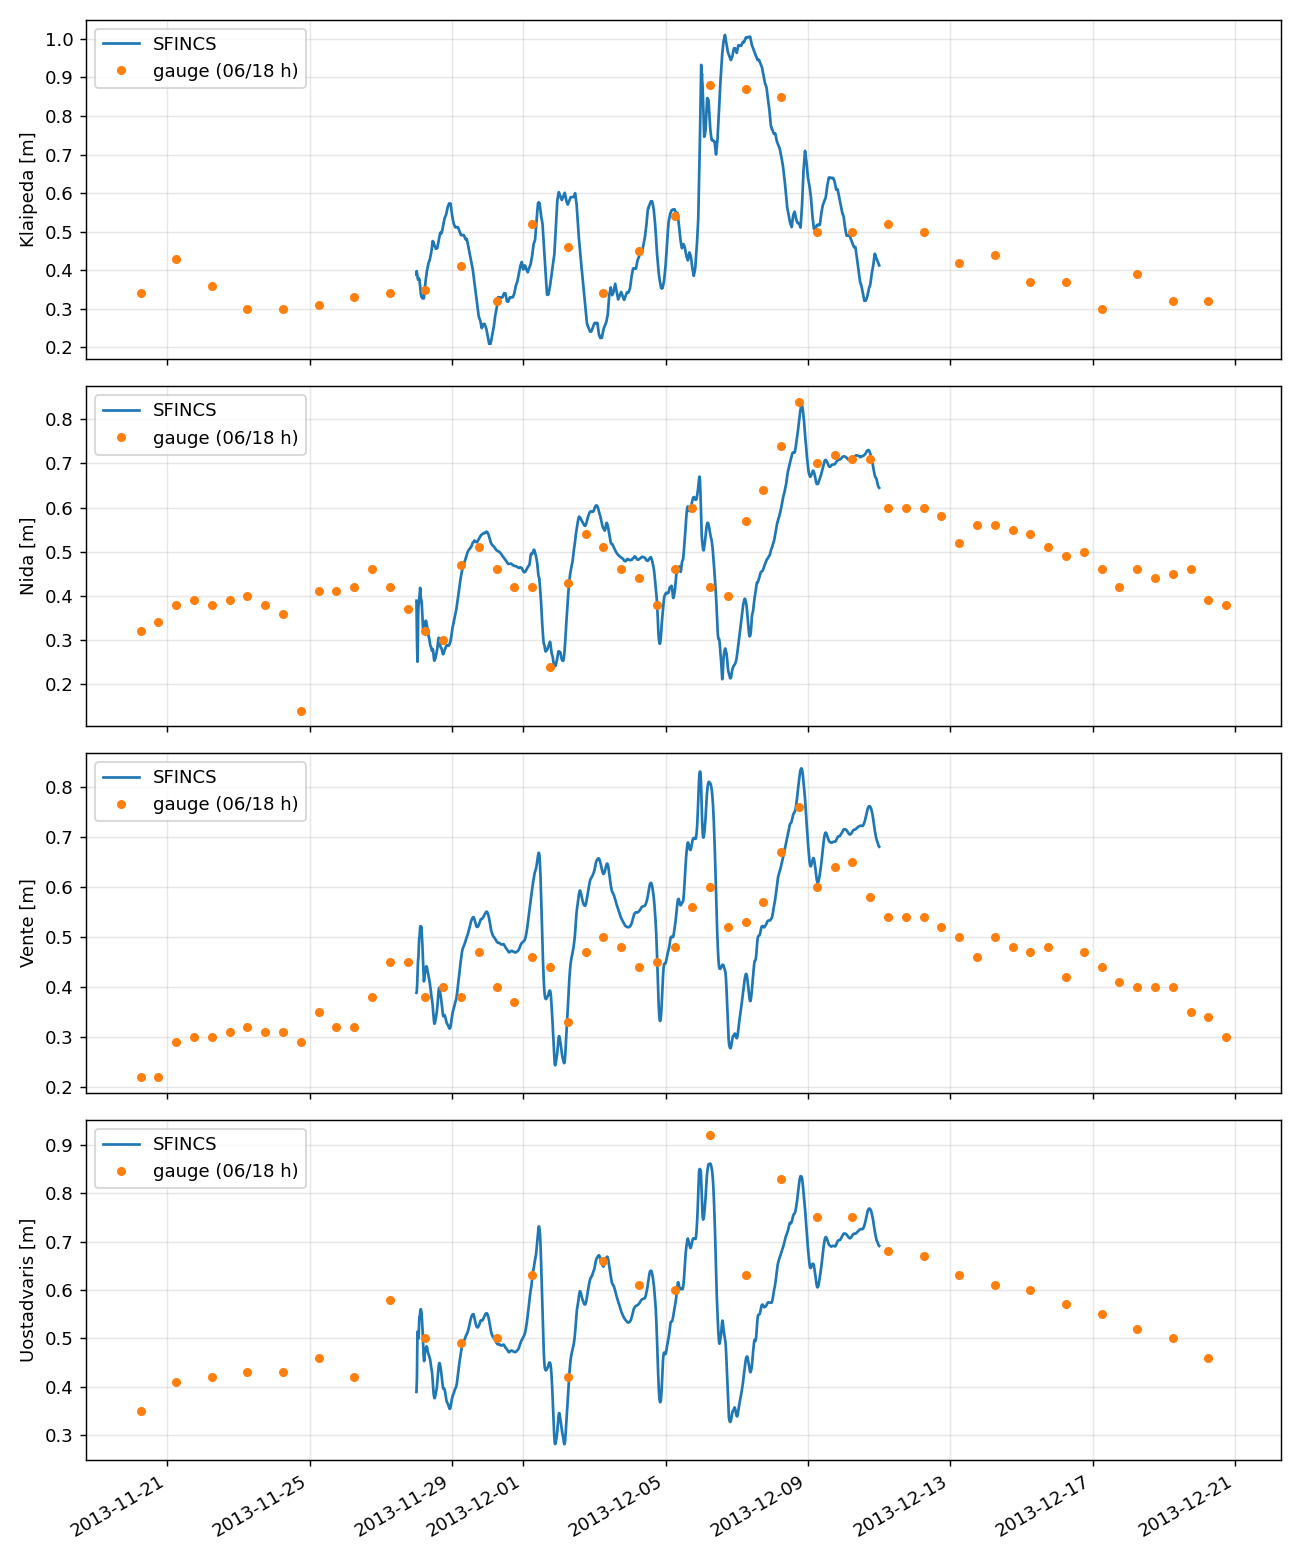
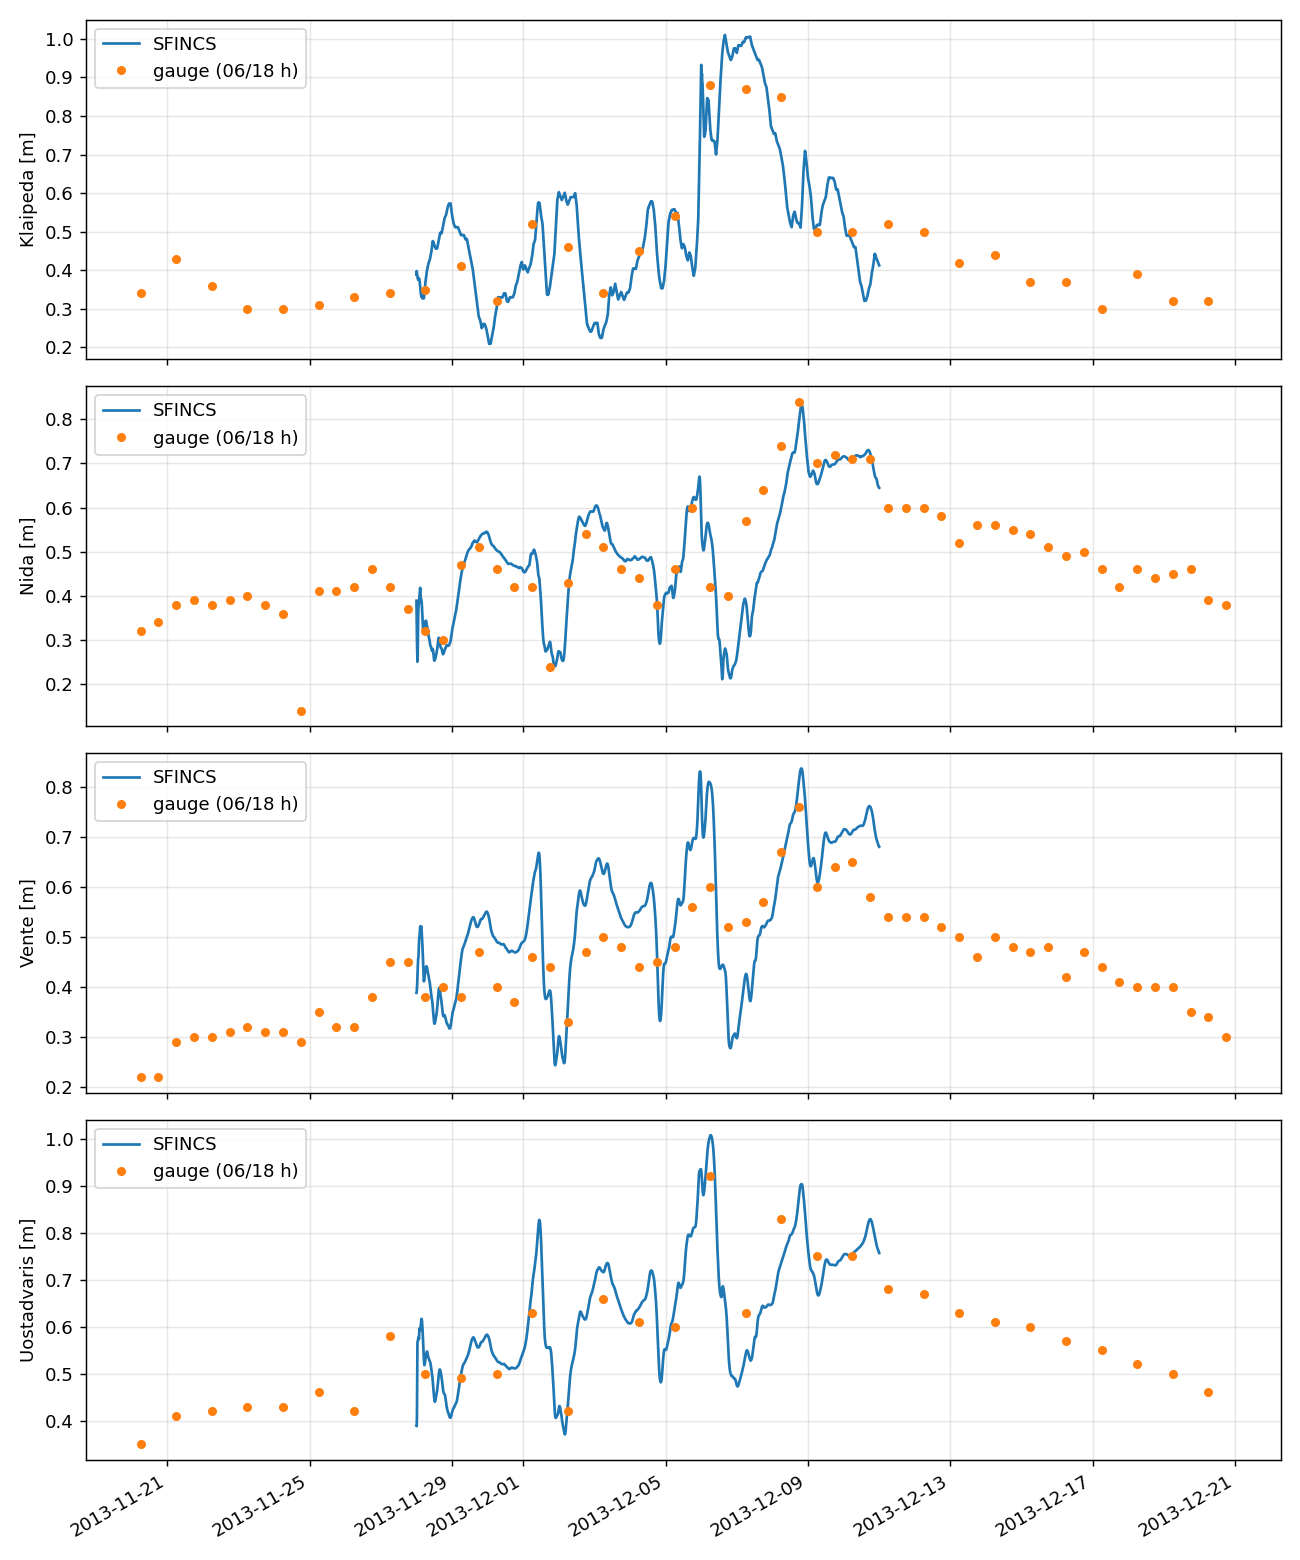
Re-run all four hindcasts after the Smalininkai re-ingest and Uostadvaris move
Rebuilt and re-ran april_2013, xaver_2013, xaver_2013_gridwind, and
xaver_2013_gridwind_pressure so their sfincs.obs picks up the corrected
Uostadvaris gauge position, and April additionally picks up the re-ingested
5-11 April Smalininkai spin-up discharge.

April's A1 peak error flips sign exactly as predicted from sampling
(-0.23 m -> +0.16 m, model peak 0.70 m vs gauge 0.54 m) but stays not met;
A2a and A3 also move because they sample Uostadvaris, with A3 flipping from
met to not met. A4/A5 and flooded area (81.0 km2) are unchanged. All three
Xaver runs' C1 also flip sign as predicted (e.g. base run -0.06 m -> +0.09 m)
and stay met; C2-C4 and flooded areas are unchanged since Xaver's forcing
was never touched.

Full before/after tables, wall-clock times, and the prediction check are in
.superpowers/sdd/2026-09-16-april-2013-nemunas-flood/rerun-after-reingest-report.md.

diff --git a/curonian/results/april_2013/validation.md b/curonian/results/april_2013/validation.md
@@ -7,7 +7,7 @@ Whole period: 2013-04-05 00:00 to 2013-05-02 00:00
 | Klaipeda | 27 | -0.12 | 0.15 | 0.73 | -0.15 | +19 |
 | Nida | 54 | -0.12 | 0.13 | 0.99 | -0.15 | +12 |
 | Vente | 54 | +0.01 | 0.04 | 0.97 | -0.02 | -6 |
-| Uostadvaris | 27 | -0.16 | 0.21 | 0.92 | -0.23 | +18 |
+| Uostadvaris | 27 | +0.18 | 0.22 | 0.91 | +0.16 | +18 |
 
 Scoring window: 2013-04-13 00:00 to 2013-05-02 00:00
 
@@ -16,14 +16,14 @@ Scoring window: 2013-04-13 00:00 to 2013-05-02 00:00
 | Klaipeda | 19 | -0.16 | 0.18 | 0.77 | -0.15 | +19 |
 | Nida | 38 | -0.13 | 0.14 | 0.99 | -0.15 | +12 |
 | Vente | 38 | -0.00 | 0.04 | 0.96 | -0.02 | -6 |
-| Uostadvaris | 19 | -0.22 | 0.25 | 0.88 | -0.23 | +18 |
+| Uostadvaris | 19 | +0.22 | 0.25 | 0.82 | +0.16 | +18 |
 
 Flooded land in the delta window (depth > 5 cm, ground > 0 m): **81.0 km²**
 
 ### Success criteria (spec section 9)
-- A1 Uostadvaris peak [2013-04-13 00:00 to 2013-05-02 00:00]: **not met** -- model peak 0.31 m vs gauge 0.54 m, err -0.23 m (threshold: peak err within +/-0.15 m)
-- A2a filling rate [first crossing of +0.20 m]: **not met** -- model 2013-04-23 17:20 vs gauge (interpolated) 2013-04-19 08:00, dt +105 h (threshold: within +/-24 h of the observed crossing)
-- A2b crest timing [2013-04-21 18:00 to 2013-04-24 18:00]: **not met** -- model peak 2013-04-25 00:10; observed plateau 22 Apr-24 Apr (threshold: model peak inside the observed plateau +/-12 h)
-- A3 delta-to-sea head [2013-04-22 00:00 to 2013-04-26 00:00]: **met** -- model 0.35 m vs gauge 0.48 m over 5 readings, err -0.13 m (threshold: mean head within +/-0.15 m)
+- A1 Uostadvaris peak [2013-04-13 00:00 to 2013-05-02 00:00]: **not met** -- model peak 0.70 m vs gauge 0.54 m, err +0.16 m (threshold: peak err within +/-0.15 m)
+- A2a filling rate [first crossing of +0.20 m]: **not met** -- model 2013-04-15 01:20 vs gauge (interpolated) 2013-04-19 08:00, dt -103 h (threshold: within +/-24 h of the observed crossing)
+- A2b crest timing [2013-04-21 18:00 to 2013-04-24 18:00]: **not met** -- model peak 2013-04-25 00:00; observed plateau 22 Apr-24 Apr (threshold: model peak inside the observed plateau +/-12 h)
+- A3 delta-to-sea head [2013-04-22 00:00 to 2013-04-26 00:00]: **not met** -- model 0.84 m vs gauge 0.48 m over 5 readings, err +0.37 m (threshold: mean head within +/-0.15 m)
 - A4 Klaipeda control [2013-04-13 00:00 to 2013-05-02 00:00]: **not met** -- RMSE 0.176 m against an observed sd of 0.089 m (threshold: RMSE <= 0.085 m (below the observed sd of 0.089 m: a flat series fails))
 - A5 Silute uplands [whole run, delta window (325000, 6105000, 360000, 6145000)]: **met** -- 0.00% of land with ground > 3 m flooded (threshold: < 1 % flooded)

diff --git a/curonian/results/xaver_2013/validation.md b/curonian/results/xaver_2013/validation.md
@@ -7,7 +7,7 @@ Whole period: 2013-11-28 00:00 to 2013-12-11 00:00
 | Klaipeda | 13 | -0.01 | 0.08 | 0.91 | +0.13 | +10 |
 | Nida | 26 | -0.01 | 0.08 | 0.86 | -0.01 | +2 |
 | Vente | 26 | +0.05 | 0.10 | 0.77 | +0.08 | +2 |
-| Uostadvaris | 13 | -0.06 | 0.08 | 0.91 | -0.06 | -0 |
+| Uostadvaris | 13 | +0.01 | 0.06 | 0.92 | +0.09 | +0 |
 
 Storm window: 2013-12-05 00:00 to 2013-12-09 00:00
 
@@ -16,14 +16,14 @@ Storm window: 2013-12-05 00:00 to 2013-12-09 00:00
 | Klaipeda | 4 | -0.03 | 0.12 | 0.73 | +0.13 | +10 |
 | Nida | 8 | -0.08 | 0.13 | 0.78 | -0.04 | +0 |
 | Vente | 8 | +0.01 | 0.12 | 0.71 | +0.07 | -67 |
-| Uostadvaris | 4 | -0.11 | 0.12 | 0.92 | -0.06 | -0 |
+| Uostadvaris | 4 | -0.01 | 0.08 | 0.90 | +0.09 | +0 |
 
 Flooded land in the delta window (depth > 5 cm, ground > 0 m): **157.3 km²**
 
 ### Success criteria (spec section 9)
-- C1 Uostadvaris peak [2013-12-05 00:00 to 2013-12-09 00:00]: **met** -- model peak 2013-12-06 05:50, peak err -0.06 m, dt -0.2 h (threshold: peak err within +/-0.15 m and |dt| <= 6 h)
+- C1 Uostadvaris peak [2013-12-05 00:00 to 2013-12-09 00:00]: **met** -- model peak 2013-12-06 06:20, peak err +0.09 m, dt +0.3 h (threshold: peak err within +/-0.15 m and |dt| <= 6 h)
 - C2 Nida 8 Dec rise [2013-12-07 06:00 to 2013-12-08 18:00]: **met** -- model 0.39 m -> 0.80 m vs gauge 0.84 m, err -0.04 m, rise reproduced (threshold: err within +/-0.15 m (<=0.10 m for a clean 'met'), rise reproduced in sign)
 - C3 Klaipeda RMSE [2013-12-05 00:00 to 2013-12-09 00:00]: **met** -- storm RMSE 0.12 m (whole-period RMSE 0.08 m) (threshold: storm-window RMSE <= 0.15 m)
 - C4 Silute uplands [delta window (325000, 6105000, 360000, 6145000)]: **met** -- 0.00% of land with ground > 3 m flooded (threshold: < 1 % flooded)
-- Info: Uostadvaris 8 Dec 06:00 [2013-12-08 06:00]: **info** -- model 0.68 m vs gauge 0.83 m, err -0.15 m (threshold: n/a (context only))
+- Info: Uostadvaris 8 Dec 06:00 [2013-12-08 06:00]: **info** -- model 0.74 m vs gauge 0.83 m, err -0.09 m (threshold: n/a (context only))
 - Info: Nida 8 Dec 06:00 [2013-12-08 06:00]: **info** -- model 0.60 m vs gauge 0.74 m, err -0.14 m (threshold: n/a (context only))

diff --git a/curonian/results/xaver_2013_gridwind/validation.md b/curonian/results/xaver_2013_gridwind/validation.md
@@ -7,7 +7,7 @@ Whole period: 2013-11-28 00:00 to 2013-12-11 00:00
 | Klaipeda | 13 | -0.01 | 0.08 | 0.90 | +0.12 | +26 |
 | Nida | 26 | -0.01 | 0.06 | 0.92 | -0.02 | +2 |
 | Vente | 26 | +0.05 | 0.08 | 0.85 | +0.05 | +2 |
-| Uostadvaris | 13 | -0.06 | 0.07 | 0.96 | -0.11 | -0 |
+| Uostadvaris | 13 | -0.00 | 0.04 | 0.96 | +0.01 | +0 |
 
 Storm window: 2013-12-05 00:00 to 2013-12-09 00:00
 
@@ -16,14 +16,14 @@ Storm window: 2013-12-05 00:00 to 2013-12-09 00:00
 | Klaipeda | 4 | -0.03 | 0.12 | 0.72 | +0.12 | +26 |
 | Nida | 8 | -0.06 | 0.09 | 0.86 | -0.05 | +0 |
 | Vente | 8 | +0.03 | 0.09 | 0.78 | +0.04 | +0 |
-| Uostadvaris | 4 | -0.10 | 0.11 | 0.96 | -0.11 | -0 |
+| Uostadvaris | 4 | -0.03 | 0.05 | 0.94 | +0.01 | +0 |
 
 Flooded land in the delta window (depth > 5 cm, ground > 0 m): **130.6 km²**
 
 ### Success criteria (spec section 9)
-- C1 Uostadvaris peak [2013-12-05 00:00 to 2013-12-09 00:00]: **met** -- model peak 2013-12-06 05:40, peak err -0.11 m, dt -0.3 h (threshold: peak err within +/-0.15 m and |dt| <= 6 h)
+- C1 Uostadvaris peak [2013-12-05 00:00 to 2013-12-09 00:00]: **met** -- model peak 2013-12-06 06:10, peak err +0.01 m, dt +0.2 h (threshold: peak err within +/-0.15 m and |dt| <= 6 h)
 - C2 Nida 8 Dec rise [2013-12-07 06:00 to 2013-12-08 18:00]: **met** -- model 0.43 m -> 0.79 m vs gauge 0.84 m, err -0.05 m, rise reproduced (threshold: err within +/-0.15 m (<=0.10 m for a clean 'met'), rise reproduced in sign)
 - C3 Klaipeda RMSE [2013-12-05 00:00 to 2013-12-09 00:00]: **met** -- storm RMSE 0.12 m (whole-period RMSE 0.08 m) (threshold: storm-window RMSE <= 0.15 m)
 - C4 Silute uplands [delta window (325000, 6105000, 360000, 6145000)]: **met** -- 0.00% of land with ground > 3 m flooded (threshold: < 1 % flooded)
-- Info: Uostadvaris 8 Dec 06:00 [2013-12-08 06:00]: **info** -- model 0.70 m vs gauge 0.83 m, err -0.13 m (threshold: n/a (context only))
+- Info: Uostadvaris 8 Dec 06:00 [2013-12-08 06:00]: **info** -- model 0.75 m vs gauge 0.83 m, err -0.08 m (threshold: n/a (context only))
 - Info: Nida 8 Dec 06:00 [2013-12-08 06:00]: **info** -- model 0.63 m vs gauge 0.74 m, err -0.11 m (threshold: n/a (context only))

diff --git a/curonian/results/xaver_2013_gridwind_pressure/validation.md b/curonian/results/xaver_2013_gridwind_pressure/validation.md
@@ -7,7 +7,7 @@ Whole period: 2013-11-28 00:00 to 2013-12-11 00:00
 | Klaipeda | 13 | -0.01 | 0.09 | 0.90 | +0.12 | +26 |
 | Nida | 26 | -0.01 | 0.06 | 0.91 | -0.03 | +2 |
 | Vente | 26 | +0.05 | 0.08 | 0.84 | +0.04 | +1 |
-| Uostadvaris | 13 | -0.06 | 0.08 | 0.95 | -0.10 | -0 |
+| Uostadvaris | 13 | -0.01 | 0.04 | 0.95 | +0.01 | +0 |
 
 Storm window: 2013-12-05 00:00 to 2013-12-09 00:00
 
@@ -16,14 +16,14 @@ Storm window: 2013-12-05 00:00 to 2013-12-09 00:00
 | Klaipeda | 4 | -0.03 | 0.12 | 0.72 | +0.12 | +26 |
 | Nida | 8 | -0.06 | 0.10 | 0.84 | -0.06 | +0 |
 | Vente | 8 | +0.02 | 0.09 | 0.76 | +0.03 | +0 |
-| Uostadvaris | 4 | -0.10 | 0.11 | 0.95 | -0.10 | -0 |
+| Uostadvaris | 4 | -0.03 | 0.06 | 0.93 | +0.01 | +0 |
 
 Flooded land in the delta window (depth > 5 cm, ground > 0 m): **130.1 km²**
 
 ### Success criteria (spec section 9)
-- C1 Uostadvaris peak [2013-12-05 00:00 to 2013-12-09 00:00]: **met** -- model peak 2013-12-06 05:50, peak err -0.10 m, dt -0.2 h (threshold: peak err within +/-0.15 m and |dt| <= 6 h)
+- C1 Uostadvaris peak [2013-12-05 00:00 to 2013-12-09 00:00]: **met** -- model peak 2013-12-06 06:20, peak err +0.01 m, dt +0.3 h (threshold: peak err within +/-0.15 m and |dt| <= 6 h)
 - C2 Nida 8 Dec rise [2013-12-07 06:00 to 2013-12-08 18:00]: **met** -- model 0.41 m -> 0.78 m vs gauge 0.84 m, err -0.06 m, rise reproduced (threshold: err within +/-0.15 m (<=0.10 m for a clean 'met'), rise reproduced in sign)
 - C3 Klaipeda RMSE [2013-12-05 00:00 to 2013-12-09 00:00]: **met** -- storm RMSE 0.12 m (whole-period RMSE 0.09 m) (threshold: storm-window RMSE <= 0.15 m)
 - C4 Silute uplands [delta window (325000, 6105000, 360000, 6145000)]: **met** -- 0.00% of land with ground > 3 m flooded (threshold: < 1 % flooded)
-- Info: Uostadvaris 8 Dec 06:00 [2013-12-08 06:00]: **info** -- model 0.69 m vs gauge 0.83 m, err -0.14 m (threshold: n/a (context only))
+- Info: Uostadvaris 8 Dec 06:00 [2013-12-08 06:00]: **info** -- model 0.74 m vs gauge 0.83 m, err -0.09 m (threshold: n/a (context only))
 - Info: Nida 8 Dec 06:00 [2013-12-08 06:00]: **info** -- model 0.62 m vs gauge 0.74 m, err -0.12 m (threshold: n/a (context only))
